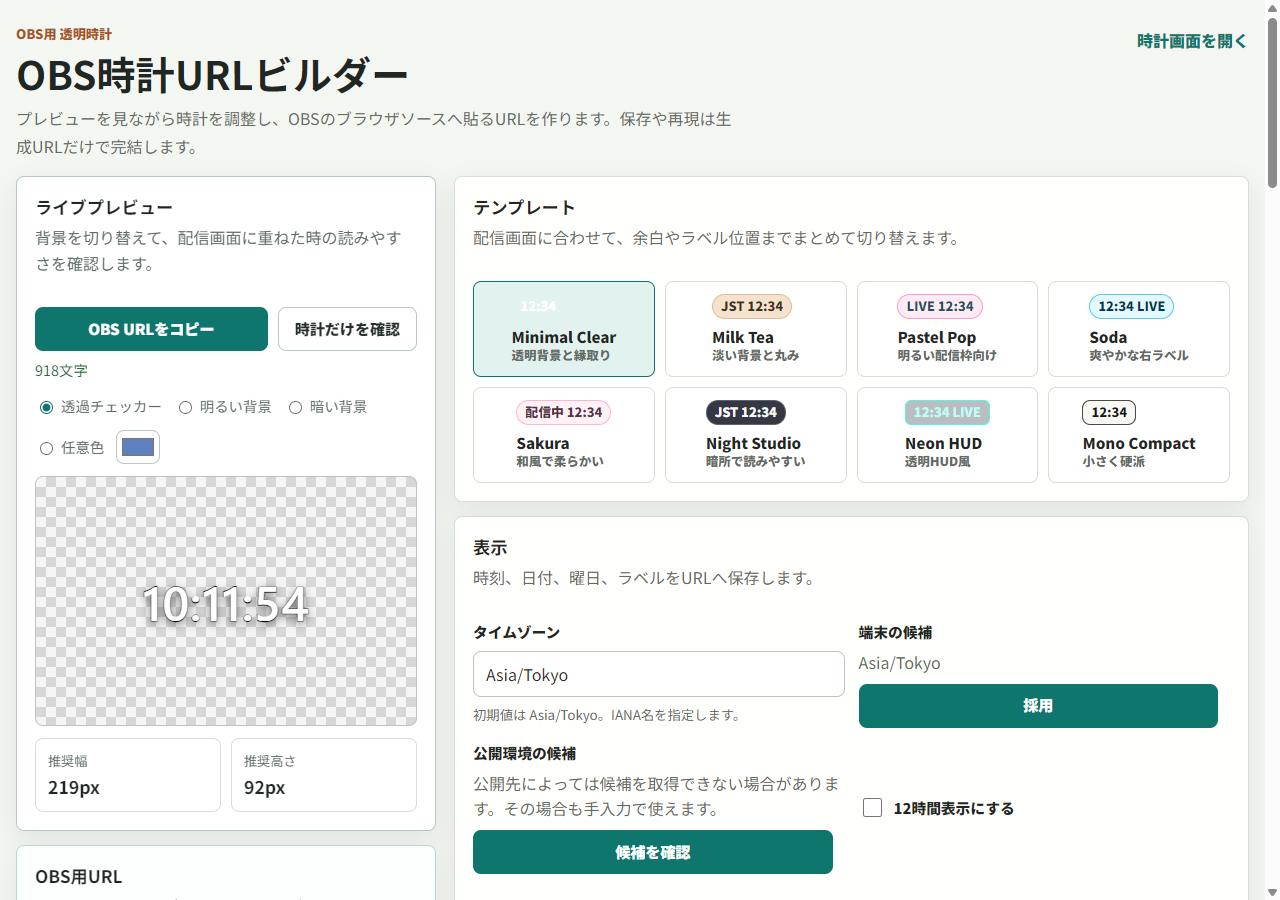
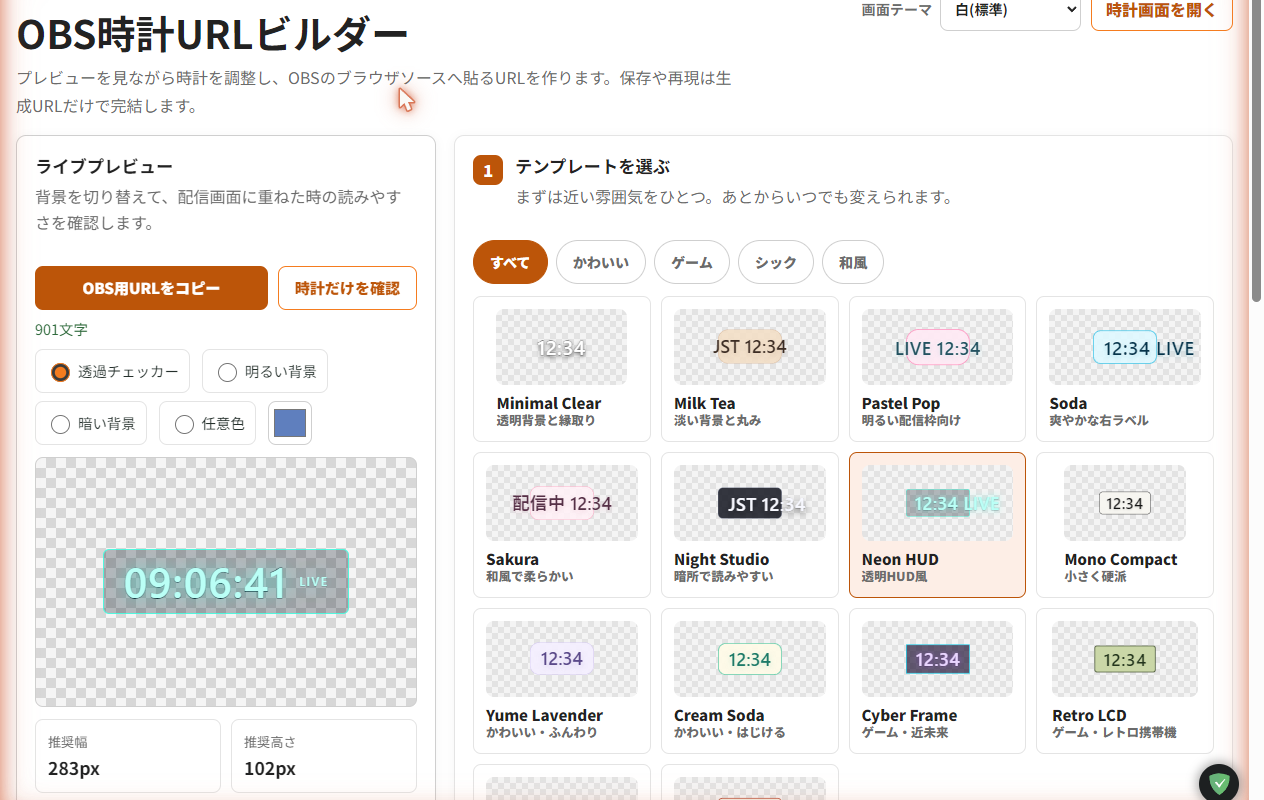
release: prepare v0.2.0 design refresh

diff --git a/TASKS_BACKLOG.md b/TASKS_BACKLOG.md
@@ -24,13 +24,13 @@
 | TB-008 | CL-007 public/private documentation policyを最終決定する | `docs/PR19_REVIEW_READINESS.md`; `docs/CL007_AI_COORDINATION_DOCS_DECISION_PACKET.md` | 中 | S | skip: 人間/ChatGPTの公開方針判断が必要で、Codex単独では決定しない |
 | TB-009 | YouTube Live focused OBS overlay suite explorationをtriageする | GitHub issue #30; `docs/ROADMAP.md` | 低 | L | skip: 探索/フィードバック系で、実装前に別途scope decisionが必要 |
 | TB-010 | 公開フィードバック導線をtriageする | GitHub issue #28; GitHub issue #29; `docs/ROADMAP.md` | 低 | M | skip: 外部フィードバック待ちで、ローカル実装対象が未確定 |
-| TB-011 | 未マージ7commitをpush→PR→masterへマージし、v0.1.1タグ+GitHub releaseで区切る(deployなし) | 2026/06/13 オーナー承認済み引き継ぎ計画 | 高 | S | todo |
-| TB-012 | デザイン刷新モックアップ3案(Sakura Studio / Night Console / Craft Pop)を`docs/design-mockups/`に作成しオーナー承認を得る | 同上 | 高 | M | todo |
-| TB-013 | 互換ガードテスト(DEFAULT_CONFIGスナップショット+既知`?c=` golden)を追加し、styles.cssをtokens/clock/overlay/builderへ分割する(見た目diffゼロ) | 同上 | 高 | M | todo |
-| TB-014 | 承認デザイン案でビルダーUIを全面刷新する(STEP化、かんたん/こだわり2層、実験パネル降格) | 同上 | 高 | L | todo |
-| TB-015 | 時計テンプレートを刷新し新テンプレート約6種を追加する(DEFAULT_CONFIG凍結、`.clock-widget`構造互換維持) | 同上 | 高 | L | todo |
-| TB-016 | overlay実験面の意匠を最小限調整する(idle透明・config-only URL・payload非表示の契約維持) | 同上 | 中 | S | todo |
-| TB-017 | QA+v0.2.0リリース(CHANGELOG/README/スクリーンショット更新、staging→production deploy、remote smoke、タグ+GitHub release) | 同上 | 高 | M | todo |
+| TB-011 | 未マージ7commitをpush→PR→masterへマージし、v0.1.1タグ+GitHub releaseで区切る(deployなし) | 2026/06/13 オーナー承認済み引き継ぎ計画 | 高 | S | done: 2026/06/13 v0.2.0で完了 |
+| TB-012 | デザイン刷新モックアップ3案(Sakura Studio / Night Console / Craft Pop)を`docs/design-mockups/`に作成しオーナー承認を得る | 同上 | 高 | M | done: 2026/06/13 v0.2.0で完了 |
+| TB-013 | 互換ガードテスト(DEFAULT_CONFIGスナップショット+既知`?c=` golden)を追加し、styles.cssをtokens/clock/overlay/builderへ分割する(見た目diffゼロ) | 同上 | 高 | M | done: 2026/06/13 v0.2.0で完了 |
+| TB-014 | 承認デザイン案でビルダーUIを全面刷新する(STEP化、かんたん/こだわり2層、実験パネル降格) | 同上 | 高 | L | done: 2026/06/13 v0.2.0で完了 |
+| TB-015 | 時計テンプレートを刷新し新テンプレート約6種を追加する(DEFAULT_CONFIG凍結、`.clock-widget`構造互換維持) | 同上 | 高 | L | done: 2026/06/13 v0.2.0で完了 |
+| TB-016 | overlay実験面の意匠を最小限調整する(idle透明・config-only URL・payload非表示の契約維持) | 同上 | 中 | S | 省略: 2026/06/13 契約維持を優先し意匠変更なし |
+| TB-017 | QA+v0.2.0リリース(CHANGELOG/README/スクリーンショット更新、staging→production deploy、remote smoke、タグ+GitHub release) | 同上 | 高 | M | done: 2026/06/13 v0.2.0で完了 |
 
 ## Notes
 

diff --git a/CHANGELOG.md b/CHANGELOG.md
@@ -6,6 +6,21 @@ This project follows the spirit of [Keep a Changelog](https://keepachangelog.com
 
 ## [Unreleased]
 
+## [0.2.0] - 2026-06-13
+
+### Added
+
+- Switchable editor themes inspired by tools familiar to Japanese streamers: white (default), coral, and soft-gradient blue. The choice persists in editor localStorage only and never affects `/clock/` output.
+- Six new clock templates: Yume Lavender, Cream Soda, Cyber Frame, Retro LCD, Cinema Bar, and Sumi (14 templates total).
+- Template category tabs (かわいい / ゲーム / シック / 和風) with template cards that render the actual clock appearance on a transparent checker.
+- Template compatibility golden guard tests that freeze `DEFAULT_CONFIG`, the original eight template presets, representative `?c=` URLs, and `applyClockStyles` output.
+
+### Changed
+
+- Rebuilt the editor as a step flow (1. choose a template, 2. adjust with かんたん/こだわり layers, 3. paste into OBS) with the keyword reaction experiment collapsed into a bottom "実験室" section.
+- Split `styles.css` into `tokens.css` / `base.css` / `clock.css` / `overlay.css` / `builder.css`; the old `styles.css` remains as an import shim for cached HTML.
+- Existing generated `/clock/?c=...` URLs keep their exact appearance (guarded by golden tests). Legacy flat-query URLs are also unchanged because the original eight template presets were kept frozen.
+
 ## [0.1.1] - 2026-06-13
 
 ### Added

diff --git a/docs/manual-qa.md b/docs/manual-qa.md
@@ -246,3 +246,11 @@ Cloudflare Freeまたは既存契約内で、obs-clock-overlay-builder の stagi
 - Functions directory は `functions`。
 - `/api/defaults` が使えない環境でも編集画面と時計画面が壊れない。
 - GitHub Release writes はこのQAでは実行しない。
+
+## v0.2.0 デザイン刷新の確認
+
+- 編集画面がSTEP構成(1. テンプレートを選ぶ / 2. 自分好みに調整する / 3. OBSに貼る)で表示されること。
+- 「かんたん」「こだわり」タブが切り替わり、こだわり側に表示・フォント・詳細・URLインポート・X共有があること。
+- 画面テーマ(白 / コーラル / ふんわりブルー)が切り替わり、リロード後も維持されること。テーマを変えても `/clock/?c=...` の時計の見た目が変わらないこと。
+- テンプレートのカテゴリタブ(すべて/かわいい/ゲーム/シック/和風)で絞り込めること。カードのミニ時計が実際の見た目と一致すること。
+- キーワード反応実験はページ最下部の「実験室」折りたたみ内にあり、開閉できること。

diff --git a/docs/post-launch-ops.md b/docs/post-launch-ops.md
@@ -6,7 +6,7 @@ This document keeps public-safe operational guidance for release checks, cost po
 
 - public demo URL: `https://obs-clock-overlay-builder.h8nc4y.workers.dev`
 - Cloudflare Worker name: `obs-clock-overlay-builder`
-- GitHub release: `v0.1.0`
+- GitHub release: `v0.2.0`(デザイン全面刷新。`v0.1.1` はデプロイなしの区切りタグ)
 - v0.1.1 backlog: [v0.1.1-backlog.md](v0.1.1-backlog.md)
 
 Exact Worker version identifiers, rollback candidate identifiers, and private issue or PR URLs are intentionally not recorded in this public-facing document. Before any rollback, re-check the current Cloudflare version and deployment list in the authorized environment.
